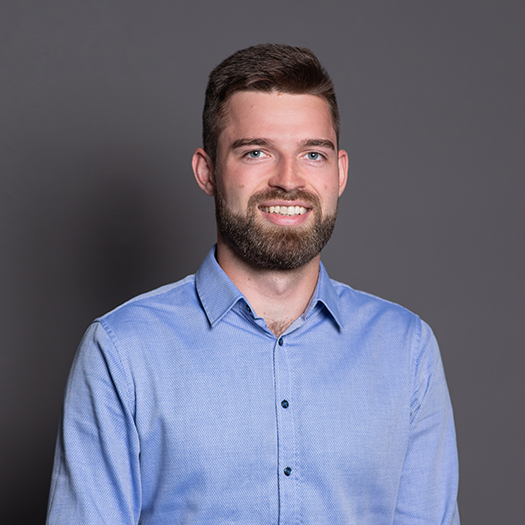
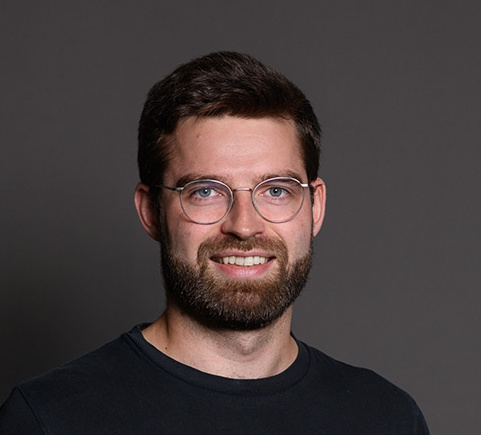
New profile picture

diff --git a/_pages/about.md b/_pages/about.md
@@ -38,7 +38,8 @@ with <a href="https://jkochems.github.io/" target="_blank" rel="noopener norefer
 <a href="https://www.staatsanzeiger.de/nachrichten/wirtschaft/studie-jeder-abgezogene-us-soldat-kostet-einen-halben-job/" target="_blank" rel="noopener noreferrer">Staatsanzeiger BW</a> <br />
 <strong>Media International:</strong> 
 <a href="https://www.bloomberg.com/news/articles/2026-06-27/trump-s-troop-withdrawal-leaves-germany-s-base-towns-in-limbo" target="_blank" rel="noopener noreferrer">Bloomberg</a>,
-<a href="https://www.macon.com/news/nation-world/world/article316301383.html" target="_blank" rel="noopener noreferrer">The Telegraph</a> <br />
+<a href="https://www.macon.com/news/nation-world/world/article316301383.html" target="_blank" rel="noopener noreferrer">The Telegraph</a>,
+<a href="https://en.ilsole24ore.com/art/us-bases-and-the-local-economy-AJPzqSG?refresh_ce=1" target="_blank" rel="noopener noreferrer">IlSole24Ore</a> <br />
 <strong>Podcast:</strong> 
 ZEW Wirklich Wirtschaft:
 <a href="https://open.spotify.com/episode/3Wf7VlsW5tgBJZNvb1tTQh" target="_blank" rel="noopener noreferrer">Spotify</a>,